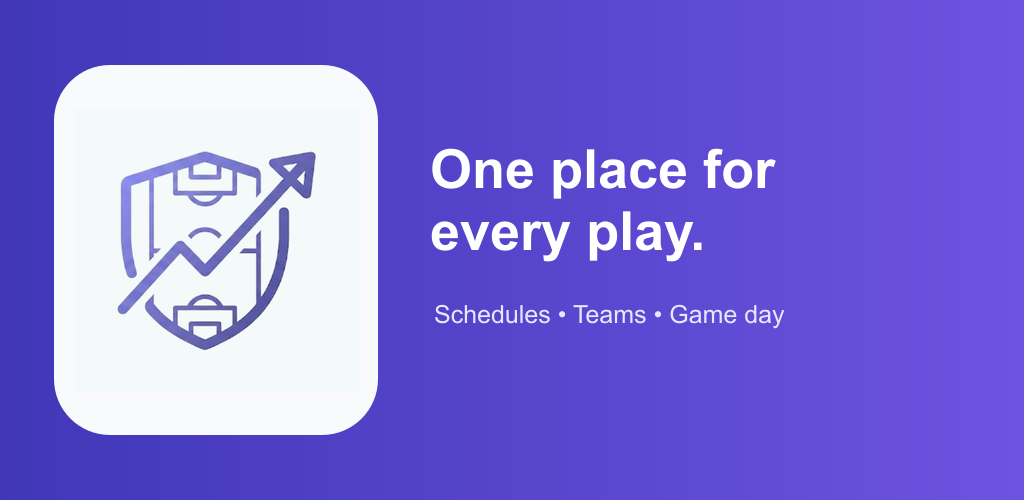
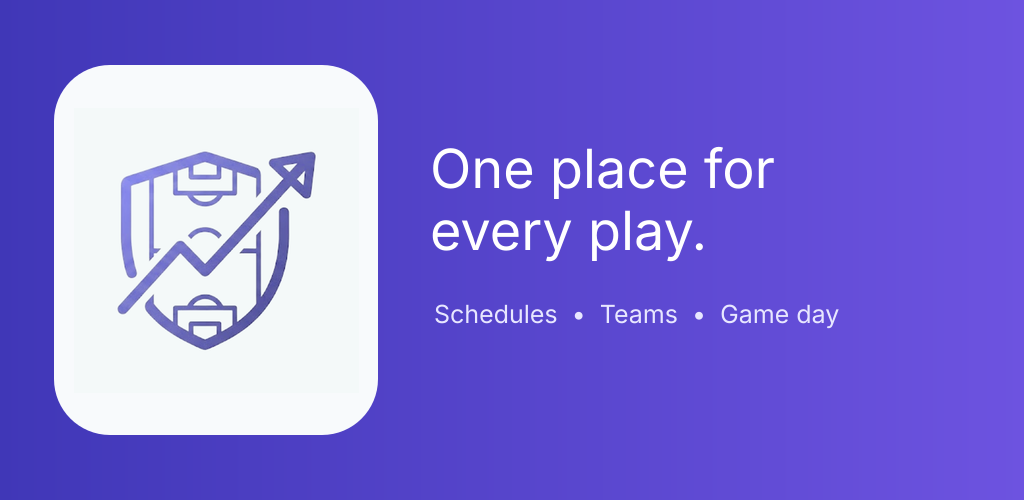
Harden Play listing asset automation

Changed region(s): [[0.4062, 0.3, 0.75, 0.39], [0.4375, 0.6, 0.8125, 0.66], [0.4062, 0.42, 0.6875, 0.51]]

diff --git a/tests/unit/play-store-listing.test.js b/tests/unit/play-store-listing.test.js
@@ -1,5 +1,6 @@
 import { describe, expect, it } from 'vitest';
-import { generateKeyPairSync } from 'node:crypto';
+import { createHash, generateKeyPairSync } from 'node:crypto';
+import { readFile } from 'node:fs/promises';
 
 import {
   loadListingPackage,
@@ -8,6 +9,7 @@ import {
   validateListing,
   validatePng
 } from '../../scripts/sync-play-listing.mjs';
+import { generateAssets } from '../../scripts/generate-play-store-assets.mjs';
 
 describe('Google Play listing package', () => {
   it('contains valid copy and every required launch graphic', async () => {
@@ -40,6 +42,24 @@ describe('Google Play listing package', () => {
       colorType: 2,
       byteLength: 1000
     }, 'phoneScreenshot', 'too-tall.png')).toThrow(/longest side/);
+  });
+
+  it.each([
+    ['featureGraphic', { width: 1024, height: 500, bitDepth: 8, colorType: 0, byteLength: 1000 }, /24-bit RGB/],
+    ['featureGraphic', { width: 1024, height: 500, bitDepth: 8, colorType: 2, byteLength: 15 * 1024 * 1024 + 1 }, /15MB/],
+    ['phoneScreenshot', { width: 1080, height: 1920, bitDepth: 8, colorType: 3, byteLength: 1000 }, /24-bit RGB/],
+    ['phoneScreenshot', { width: 1080, height: 1920, bitDepth: 8, colorType: 2, byteLength: 8 * 1024 * 1024 + 1 }, /8MB/]
+  ])('rejects unsupported or oversized %s PNGs', (kind, info, message) => {
+    expect(() => validatePng(info, kind, 'asset.png')).toThrow(message);
+  });
+
+  it('generates the committed feature graphic with the pinned font', async () => {
+    await generateAssets();
+    const bytes = await readFile('store/google-play/en-US/graphics/feature-graphic.png');
+
+    expect(createHash('sha256').update(bytes).digest('hex')).toBe(
[1 lines of base64/hex data omitted]
+    );
   });
 
   it('reads committed PNG dimensions without image-library dependencies', async () => {
